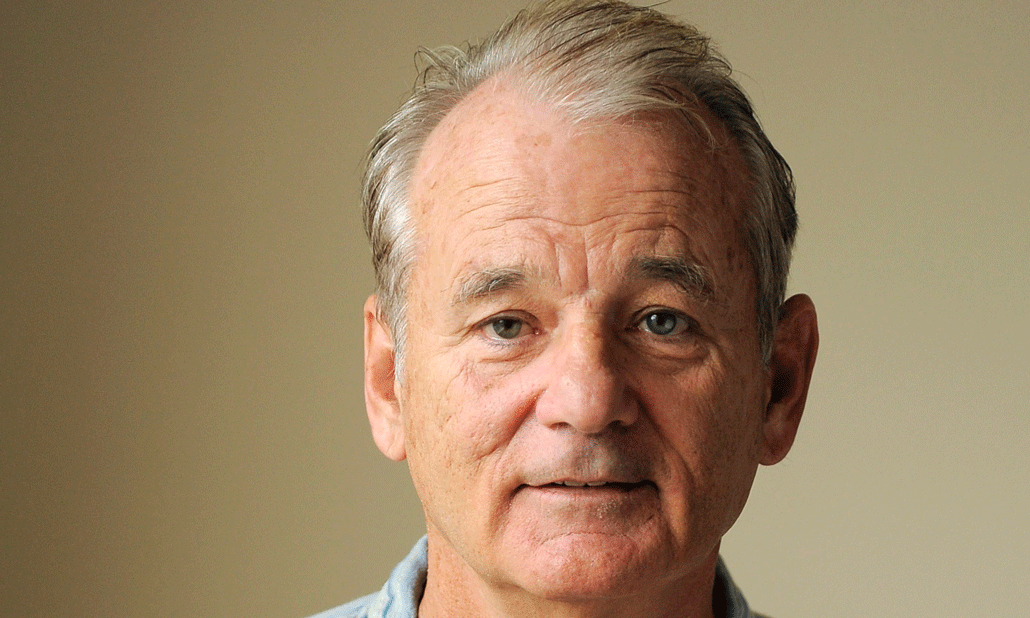
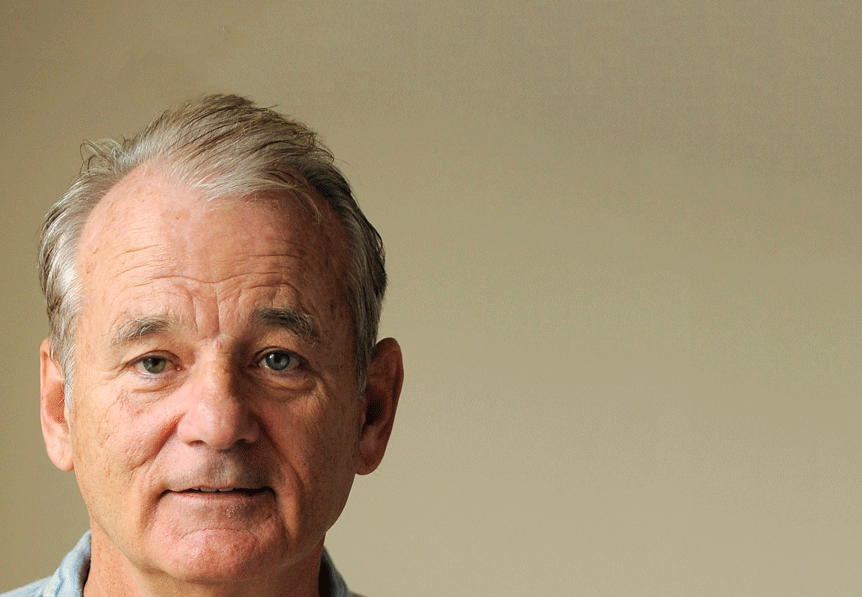
hero adjusted

diff --git a/assets/css/main.css b/assets/css/main.css
@@ -623,7 +623,7 @@ body {
 
 section.about {
   background-image: url(../img/bmhero.png);
-  background-position: -100px center;
+  background-position: center bottom;
   background-size: cover;
   color: #3f3f42; }
   section.about h2 {

diff --git a/assets/css/3-sections/_home-about.sass b/assets/css/3-sections/_home-about.sass
@@ -1,7 +1,7 @@
 section.about
   background:
     image: url(../img/bmhero.png)
-    position: -100px center
+    position: center bottom
     size: cover
   color: #3f3f42
 
